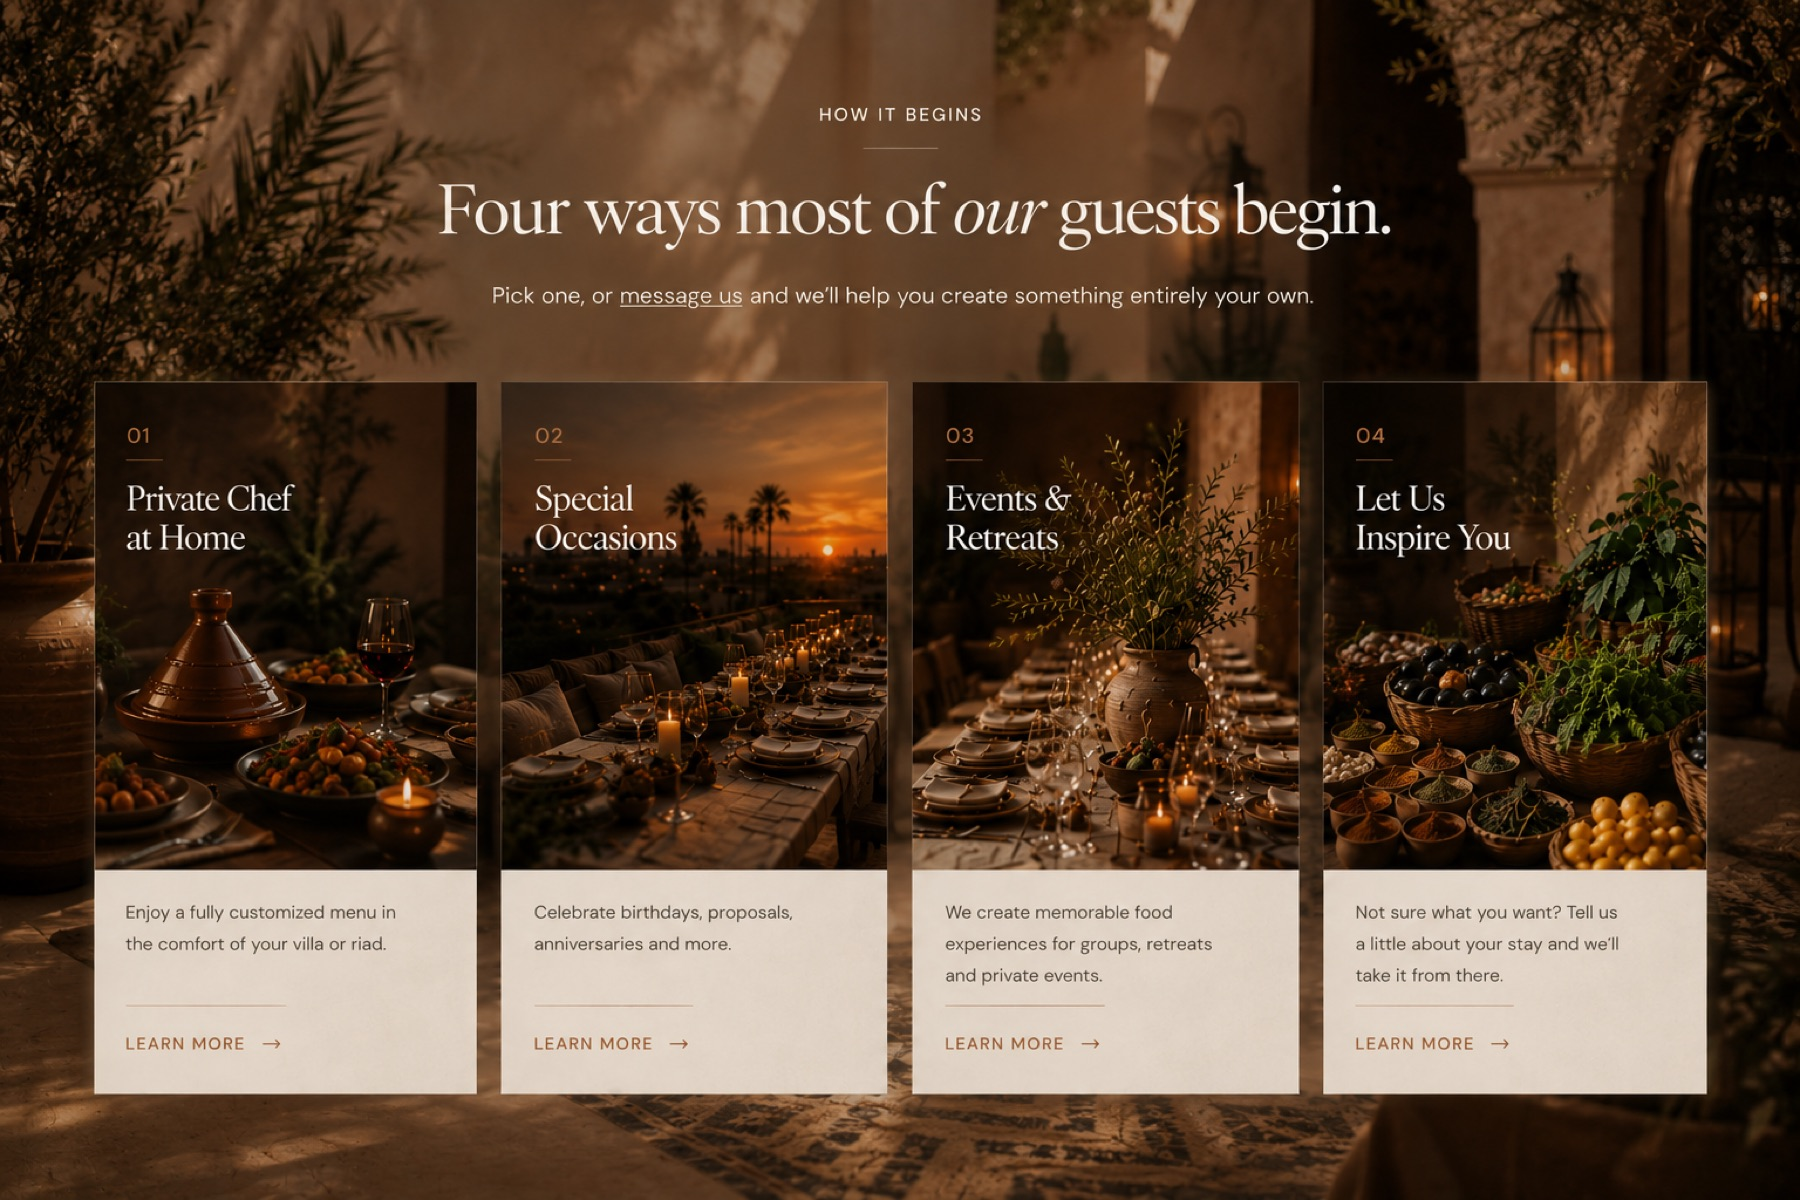
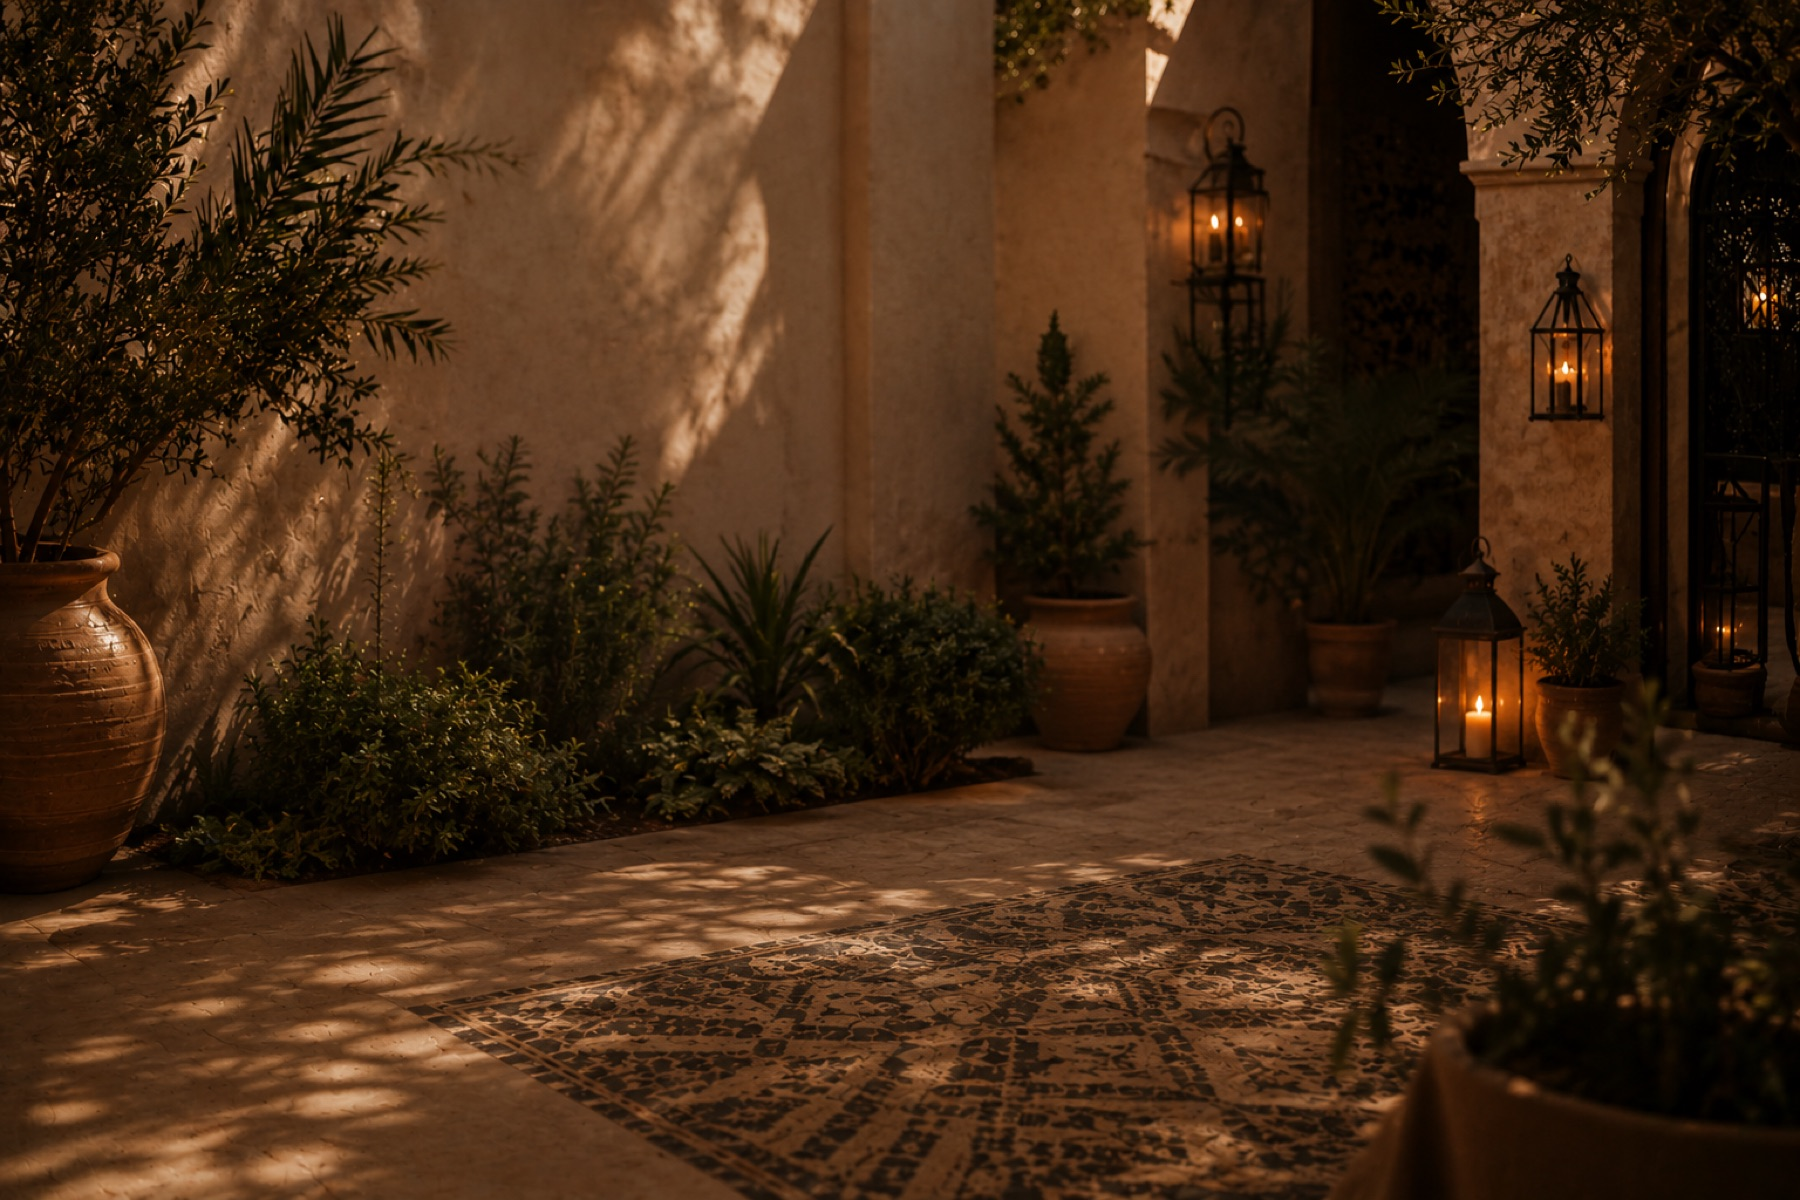
feat(home): swap Experiences background to clean courtyard image, soften overlay

diff --git a/artifacts/la-table-marrakech/src/pages/Home.tsx b/artifacts/la-table-marrakech/src/pages/Home.tsx
@@ -411,7 +411,7 @@ export default function Home() {
 
       {/* ── EXPERIENCES ──────────────────────────────────────────────────── */}
       <section className="relative py-28 md:py-36 overflow-hidden">
-        {/* Warm courtyard background with vignette + dark wash */}
+        {/* Warm courtyard background with subtle dark wash */}
         <div className="absolute inset-0">
           <img
             src="/images/experiences-bg.jpg"
@@ -419,10 +419,9 @@ export default function Home() {
             aria-hidden="true"
             loading="lazy"
             decoding="async"
-            className="w-full h-full object-cover scale-110 blur-[2px]"
+            className="w-full h-full object-cover"
           />
-          <div className="absolute inset-0 bg-gradient-to-b from-black/60 via-black/45 to-black/70" />
-          <div className="absolute inset-0 bg-stone-950/20" />
+          <div className="absolute inset-0 bg-gradient-to-b from-black/45 via-black/30 to-black/55" />
         </div>
 
         <div className="relative container mx-auto px-6">